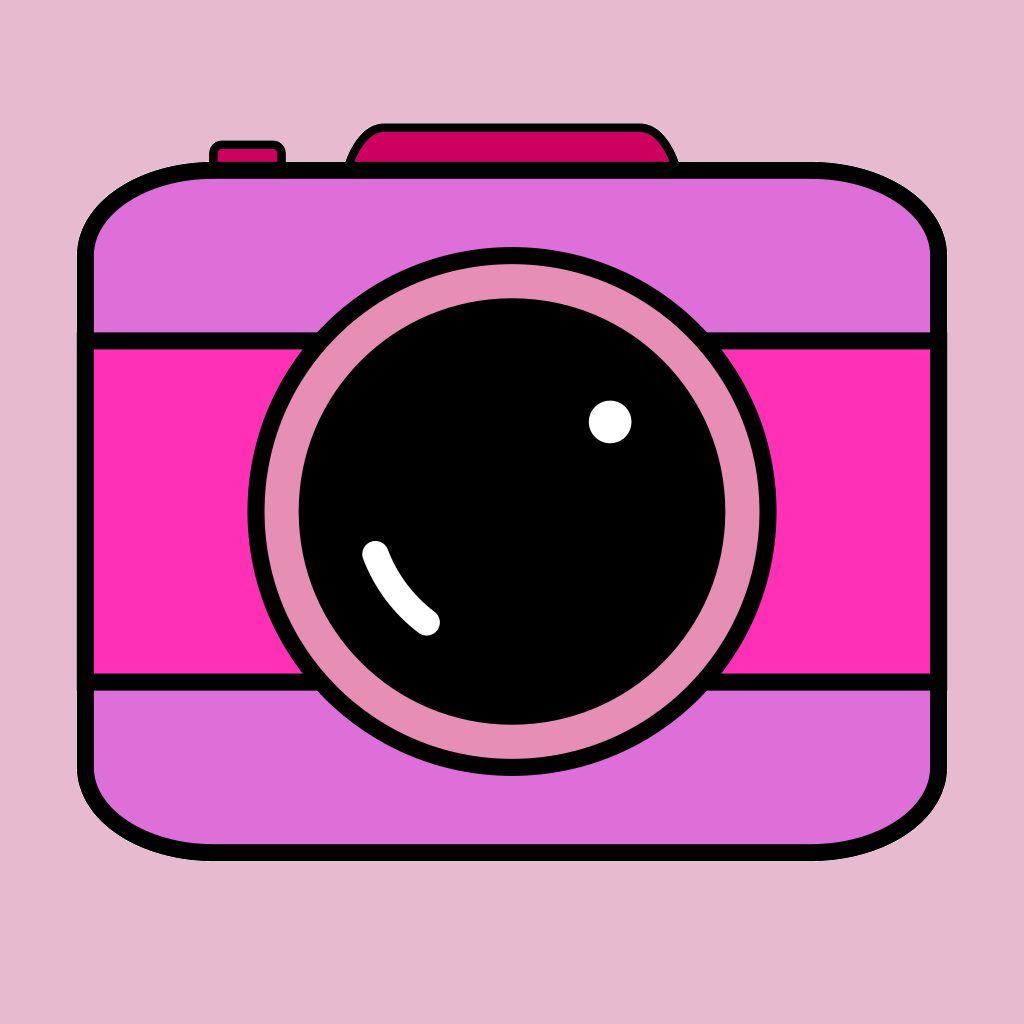
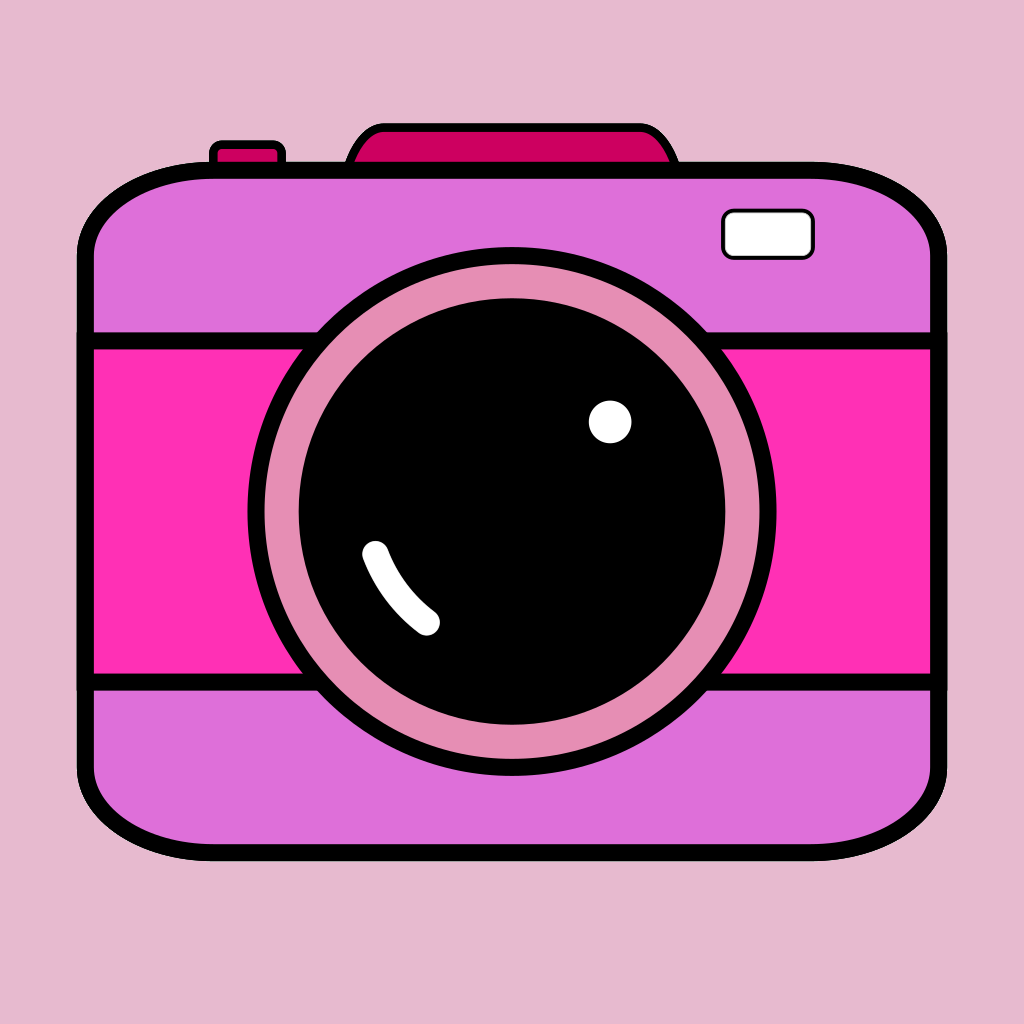
iOS integration fixes

Changed region(s): [[0.6875, 0.1875, 0.8125, 0.2812]]

diff --git a/app/_layout.tsx b/app/_layout.tsx
@@ -1,10 +1,87 @@
 import { OffscreenCaptureHost } from "@/utils/offscreen-capture";
-import { Stack } from "expo-router";
+import { Asset } from "expo-asset";
+import { SplashScreen, Stack } from "expo-router";
+import { useEffect, useState } from "react";
 import { GestureHandlerRootView } from "react-native-gesture-handler";
 import { SafeAreaProvider } from "react-native-safe-area-context";
 import { SessionProvider } from "../context/session-context";
 
+SplashScreen.preventAutoHideAsync();
+
+const IMAGES = [
+  // images
+  require("../assets/images/adaptive-icon-monochrome.png"),
+  require("../assets/images/adaptive-icon.png"),
+  require("../assets/images/favicon.png"),
+  require("../assets/images/icon.png"),
+  require("../assets/images/logo.png"),
+  require("../assets/images/rectangle-background.png"),
+  require("../assets/images/splash.png"),
+  // previews
+  require("../assets/previews/horizontal/Layout E.png"),
+  require("../assets/previews/horizontal/Layout F.png"),
+  require("../assets/previews/vertical/Layout A.png"),
+  require("../assets/previews/vertical/Layout B.png"),
+  require("../assets/previews/vertical/Layout C.png"),
+  require("../assets/previews/vertical/Layout D.png"),
+  require("../assets/previews/start-preview.png"),
+  require("../assets/previews/step1.png"),
+  require("../assets/previews/step2.png"),
+  require("../assets/previews/step3.png"),
+  require("../assets/previews/step4.png"),
+  // stickers
+  require("../assets/stickers/star.png"),
+  require("../assets/stickers/buttons/button_0.png"),
+  require("../assets/stickers/buttons/button_1.png"),
+  require("../assets/stickers/buttons/button_2.png"),
+  require("../assets/stickers/buttons/button_3.png"),
+  require("../assets/stickers/buttons/button_4.png"),
+  require("../assets/stickers/buttons/button_5.png"),
+  require("../assets/stickers/buttons/button_6.png"),
+  require("../assets/stickers/buttons/button_7.png"),
+  require("../assets/stickers/buttons/button_8.png"),
+  require("../assets/stickers/buttons/button_9.png"),
+  require("../assets/stickers/buttons/button_10.png"),
+  require("../assets/stickers/buttons/button_11.png"),
+  require("../assets/stickers/buttons/button_12.png"),
+  require("../assets/stickers/buttons/button_13.png"),
+  require("../assets/stickers/buttons/button_14.png"),
+  require("../assets/stickers/buttons/button_15.png"),
+  require("../assets/stickers/buttons/button_16.png"),
+  require("../assets/stickers/buttons/button_17.png"),
+  require("../assets/stickers/buttons/button_18.png"),
+  require("../assets/stickers/buttons/button_19.png"),
+  require("../assets/stickers/buttons/button_20.png"),
+  require("../assets/stickers/buttons/button_21.png"),
+  require("../assets/stickers/buttons/button_22.png"),
+  require("../assets/stickers/buttons/button_23.png"),
+  require("../assets/stickers/buttons/button_24.png"),
+  require("../assets/stickers/buttons/button_25.png"),
+];
+
 export default function RootLayout() {
+  const [ready, setReady] = useState(false);
+
+  useEffect(() => {
+    async function prepare() {
+      try {
+        await Asset.loadAsync(IMAGES);
+      } catch (e) {
+        console.warn("Asset preloading failed:", e);
+      } finally {
+        setReady(true);
+      }
+    }
+
+    prepare();
+  }, []);
+
+  useEffect(() => {
+    if (ready) SplashScreen.hideAsync();
+  }, [ready]);
+
+  if (!ready) return null;
+
   return (
     <GestureHandlerRootView style={{ flex: 1 }}>
       <SafeAreaProvider>

diff --git a/assets/previews/index.ts b/assets/previews/index.ts
@@ -1,0 +1,13 @@
+export default [
+  require("./horizontal/Layout E.png"),
+  require("./horizontal/Layout F.png"),
+  require("./vertical/Layout A.png"),
+  require("./vertical/Layout B.png"),
+  require("./vertical/Layout C.png"),
+  require("./vertical/Layout D.png"),
+  require("./start-preview.png"),
+  require("./step1.png"),
+  require("./step2.png"),
+  require("./step3.png"),
+  require("./step4.png"),
+];

diff --git a/components/filter-picker-tray.tsx b/components/filter-picker-tray.tsx
@@ -33,7 +33,10 @@ function FilterThumbnail({
   active: boolean;
 }) {
   return (
-    <View style={[styles.thumbnail, active && styles.thumbnailActive]}>
+    <View
+      style={[styles.thumbnail, active && styles.thumbnailActive]}
+      pointerEvents="none"
+    >
       {uri ? (
         <View style={styles.imageContainer}>
           <FilteredImage uri={uri} matrix={matrix} width={72} height={72} />

diff --git a/assets/images/index.ts b/assets/images/index.ts
@@ -1,0 +1,9 @@
+export default [
+  require("./adaptive-icon-monochrome.png"),
+  require("./adaptive-icon.png"),
+  require("./favicon.png"),
+  require("./icon.png"),
+  require("./logo.png"),
+  require("./rectangle-background.png"),
+  require("./splash.png"),
+];

diff --git a/assets/index.ts b/assets/index.ts
@@ -1,0 +1,5 @@
+import images from "./images";
+import previews from "./previews";
+import { buttonStickers } from "./stickers";
+
+export const allAssets = [...images, ...previews, ...buttonStickers];
